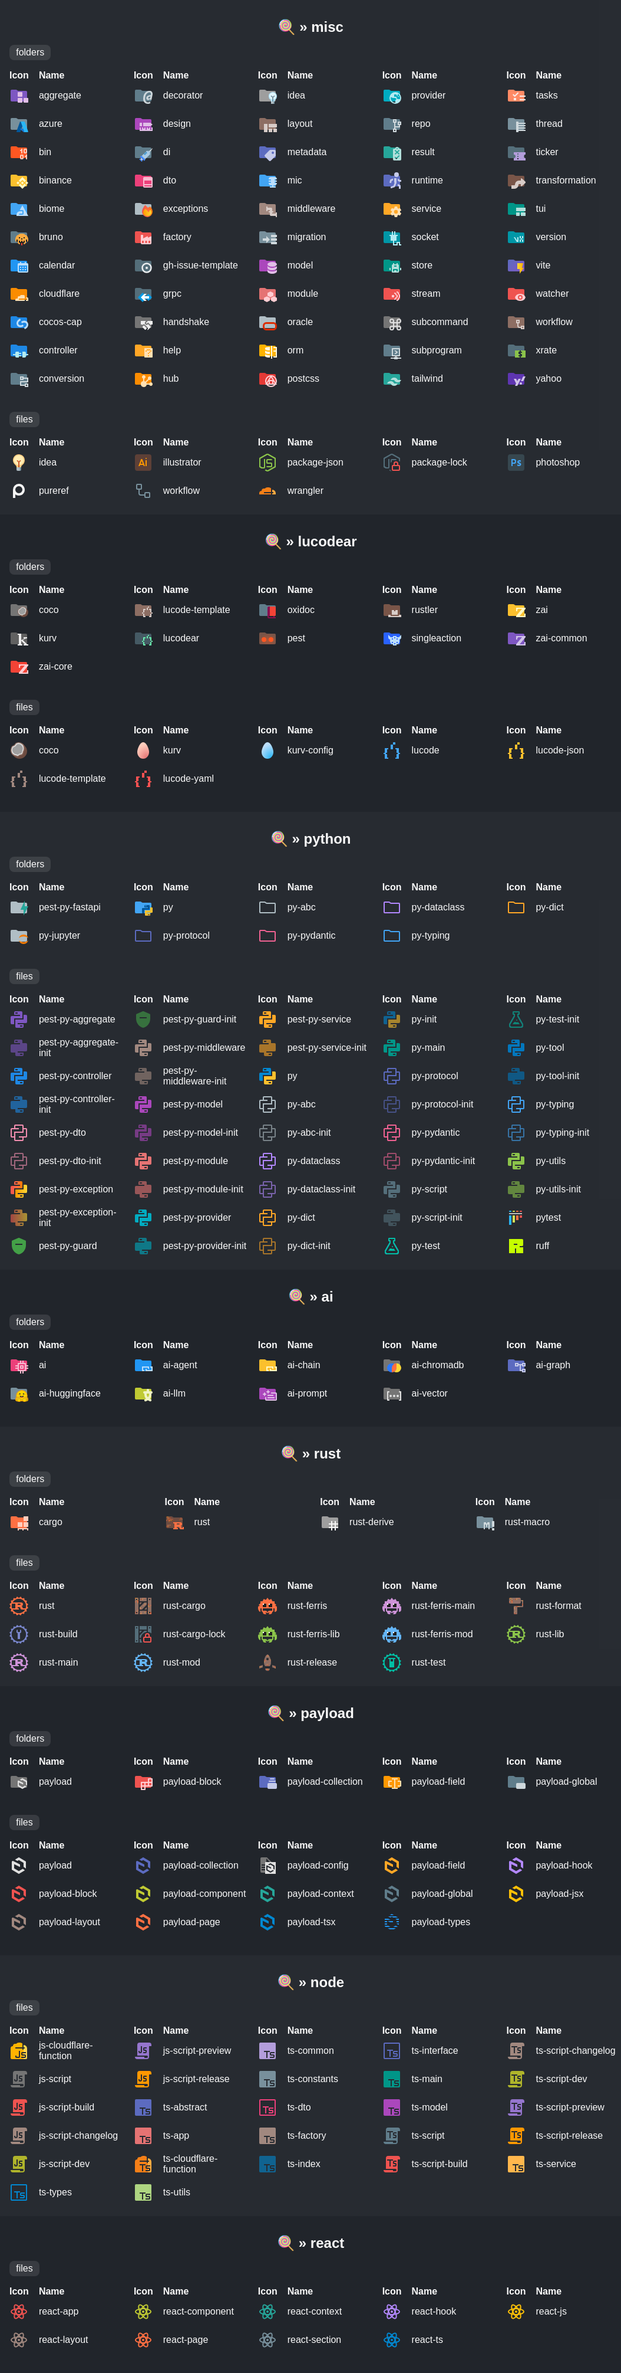
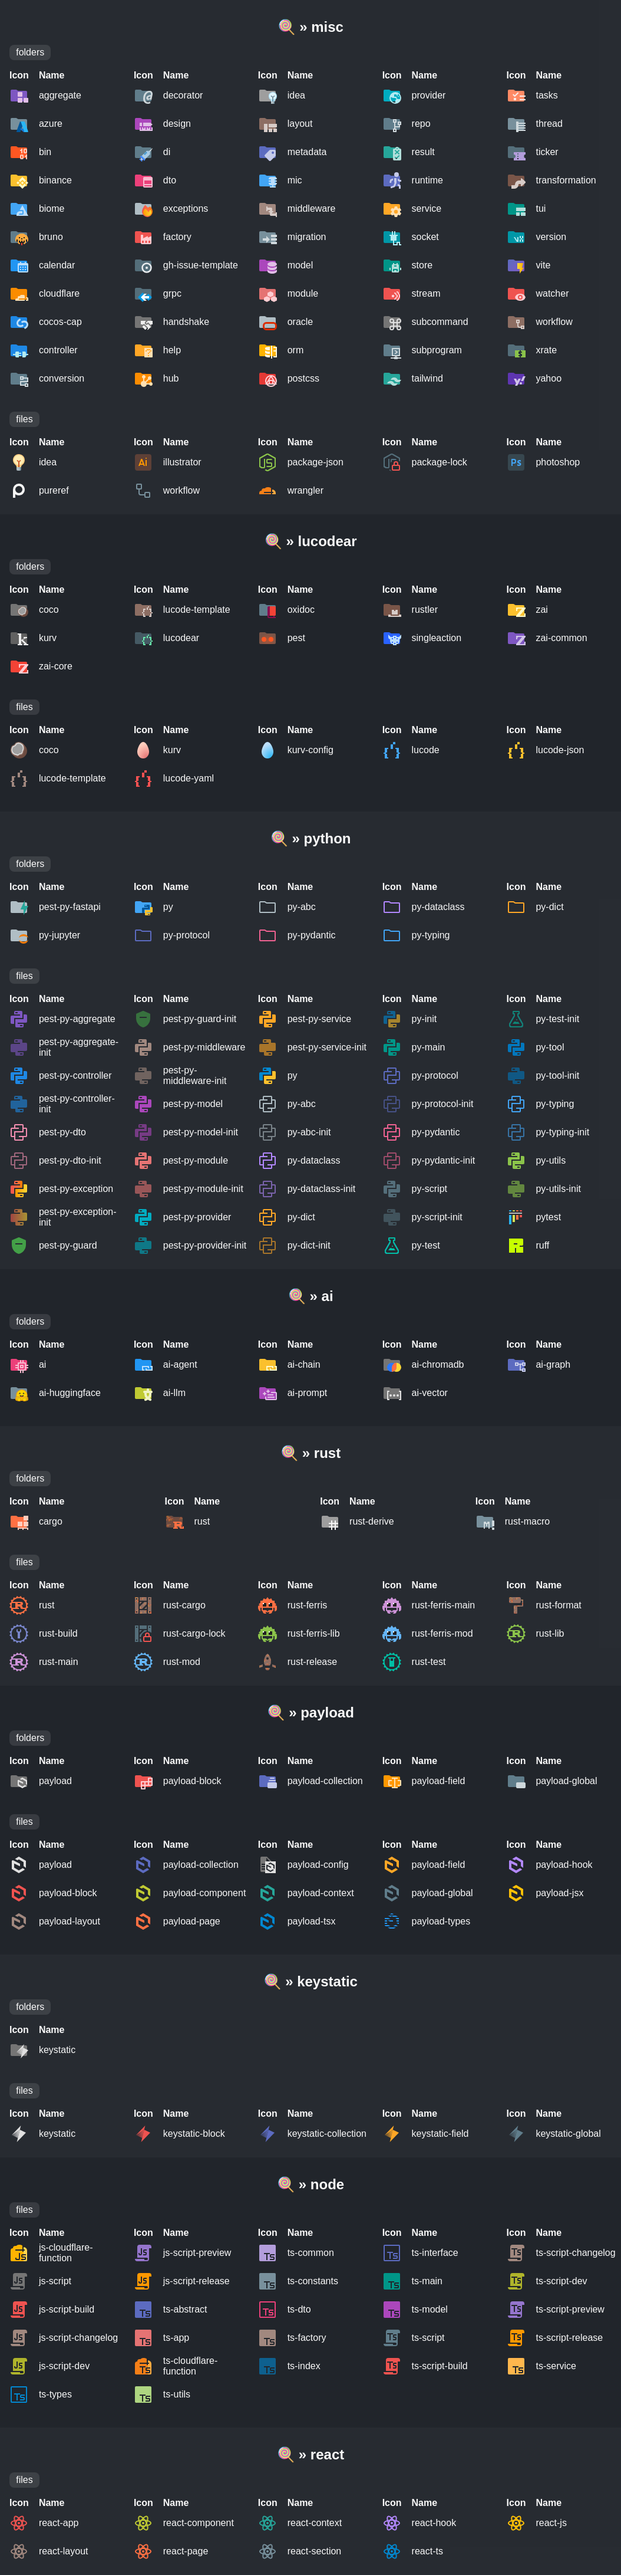
release: 🔖 v1.17.0

diff --git a/CHANGELOG.md b/CHANGELOG.md
@@ -3,10 +3,17 @@
  All notable changes to this project will be documented in this file. Dates are displayed in UTC.
 
  
+#### [v1.17.0](https://github.com/lucodear/lucodear-icons/compare/v1.16.2...v1.17.0) 
+
+> December 8, 2024 
+
+- feat: ✨ keystatic [`4f002bcb`](https://github.com/lucodear/lucodear-icons/commit/4f002bcb)
+ 
 #### [v1.16.2](https://github.com/lucodear/lucodear-icons/compare/v1.16.1...v1.16.2) 
 
 > November 24, 2024 
 
+- release: 🔖 v1.16.2 [`efd5a382`](https://github.com/lucodear/lucodear-icons/commit/efd5a382)
 - fix: 🚑 support .ts extensions in payload pack [`ef96ee95`](https://github.com/lucodear/lucodear-icons/commit/ef96ee95)
  
 #### [v1.16.1](https://github.com/lucodear/lucodear-icons/compare/v1.16.0...v1.16.1) 
